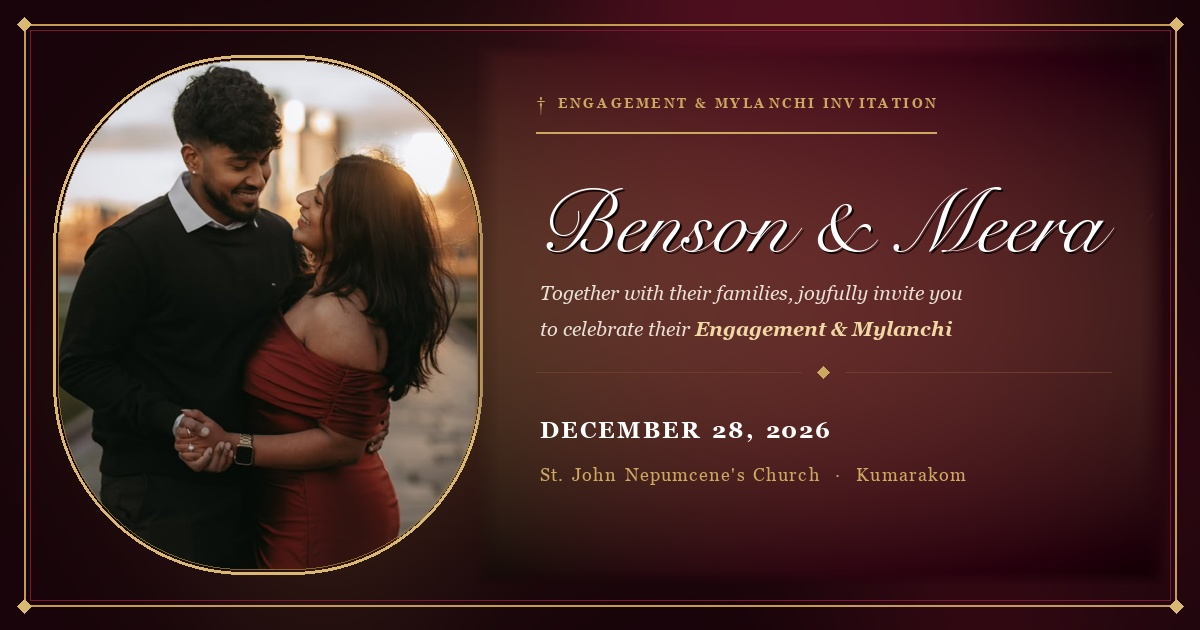
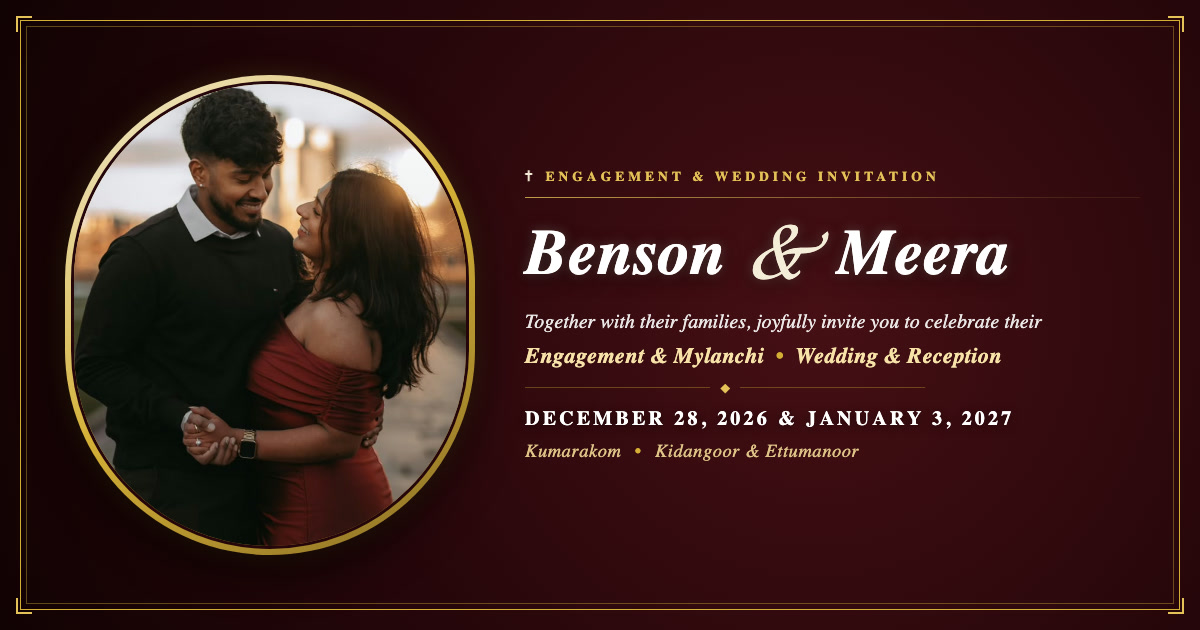
updated

diff --git a/og-template.html b/og-template.html
@@ -1,0 +1,272 @@
+<!DOCTYPE html>
+<html lang="en">
+<head>
+  <meta charset="UTF-8">
+  <style>
+    @import url('https://fonts.googleapis.com/css2?family=Cormorant+Garamond:ital,wght@0,400;0,500;0,600;0,700;1,400;1,500;1,600;1,700&family=Mrs+Saint+Delafield&display=swap');
+
+    * {
+      margin: 0;
+      padding: 0;
+      box-sizing: border-box;
+    }
+
+    body {
+      width: 1200px;
+      height: 630px;
+      overflow: hidden;
+      background: radial-gradient(circle at 68% 50%, #460f15 0%, #26060b 55%, #120204 100%);
+      font-family: 'Cormorant Garamond', serif;
+      color: #fff;
+      display: flex;
+      align-items: center;
+      position: relative;
+    }
+
+    /* Luxury border */
+    .outer-border {
+      position: absolute;
+      inset: 20px;
+      border: 1.5px solid #d4af37;
+      pointer-events: none;
+    }
+
+    .inner-border {
+      position: absolute;
+      inset: 26px;
+      border: 0.75px solid rgba(212, 175, 55, 0.4);
+      pointer-events: none;
+    }
+
+    /* Corner embellishments */
+    .corner {
+      position: absolute;
+      width: 16px;
+      height: 16px;
+      border: 2px solid #e5c158;
+    }
+    .top-left { top: 16px; left: 16px; border-right: none; border-bottom: none; }
+    .top-right { top: 16px; right: 16px; border-left: none; border-bottom: none; }
+    .bottom-left { bottom: 16px; left: 16px; border-right: none; border-top: none; }
+    .bottom-right { bottom: 16px; right: 16px; border-left: none; border-top: none; }
+
+    .content-container {
+      display: flex;
+      align-items: center;
+      width: 100%;
+      height: 100%;
+      padding: 40px 60px 40px 65px;
+      gap: 50px;
+      position: relative;
+      z-index: 2;
+    }
+
+    /* Circular / Oval Portrait */
+    .portrait-wrapper {
+      position: relative;
+      flex-shrink: 0;
+      width: 410px;
+      height: 480px;
+      border-radius: 205px;
+      padding: 6px;
+      background: linear-gradient(145deg, #f5edd8 0%, #d4af37 50%, #8a6d25 100%);
+      box-shadow: 0 15px 45px rgba(0, 0, 0, 0.7), 0 0 25px rgba(212, 175, 55, 0.2);
+    }
+
+    .portrait-inner {
+      width: 100%;
+      height: 100%;
+      border-radius: 200px;
+      overflow: hidden;
+      position: relative;
+      border: 3px solid #26060b;
+    }
+
+    .portrait-inner img {
+      width: 100%;
+      height: 100%;
+      object-fit: cover;
+      object-position: center 22%;
+      display: block;
+    }
+
+    /* Text info */
+    .info-wrapper {
+      flex: 1;
+      display: flex;
+      flex-direction: column;
+      justify-content: center;
+    }
+
+    .badge-top {
+      display: flex;
+      align-items: center;
+      gap: 9px;
+      font-size: 13.5px;
+      letter-spacing: 0.30em;
+      text-transform: uppercase;
+      color: #e5c158;
+      font-weight: 600;
+      margin-bottom: 12px;
+    }
+
+    .badge-top .cross {
+      font-size: 15px;
+      color: #f5edd8;
+    }
+
+    .gold-line {
+      height: 1px;
+      background: linear-gradient(90deg, rgba(229, 193, 88, 0.8) 0%, rgba(229, 193, 88, 0.1) 90%);
+      margin-bottom: 14px;
+      width: 100%;
+    }
+
+    .couple-title {
+      font-family: 'Cormorant Garamond', serif;
+      font-style: italic;
+      font-weight: 600;
+      font-size: 64px;
+      line-height: 1.05;
+      color: #ffffff;
+      text-shadow: 0 4px 18px rgba(0,0,0,0.6), 0 0 12px rgba(245, 237, 216, 0.25);
+      margin-bottom: 14px;
+      white-space: nowrap;
+    }
+
+    .couple-title .amp {
+      font-family: 'Mrs Saint Delafield', cursive;
+      font-size: 78px;
+      font-weight: normal;
+      color: #f5edd8;
+      margin: 0 6px;
+      vertical-align: -4px;
+    }
+
+    .invitation-text {
+      font-size: 20px;
+      font-style: italic;
+      color: rgba(255, 255, 255, 0.90);
+      line-height: 1.35;
+      margin-bottom: 8px;
+      font-weight: 400;
+    }
+
+    .events-highlight {
+      font-size: 22px;
+      color: #f5edd8;
+      font-weight: 600;
+      font-style: italic;
+      letter-spacing: 0.02em;
+      margin-bottom: 16px;
+    }
+
+    .events-highlight strong {
+      color: #f7e2a9;
+      font-weight: 600;
+    }
+
+    .events-highlight .bull {
+      color: #d4af37;
+      margin: 0 6px;
+      font-style: normal;
+    }
+
+    .diamond-divider {
+      display: flex;
+      align-items: center;
+      gap: 12px;
+      margin-bottom: 16px;
+      width: 65%;
+    }
+
+    .diamond-divider .d-line {
+      flex: 1;
+      height: 1px;
+      background: rgba(212, 175, 55, 0.35);
+    }
+
+    .diamond-divider .gem {
+      width: 6.5px;
+      height: 6.5px;
+      background: #e5c158;
+      transform: rotate(45deg);
+    }
+
+    .dates-container {
+      margin-bottom: 10px;
+    }
+
+    .dates-text {
+      font-size: 20px;
+      letter-spacing: 0.16em;
+      text-transform: uppercase;
+      font-weight: 700;
+      color: #ffffff;
+      text-shadow: 0 2px 8px rgba(0,0,0,0.5);
+    }
+
+    .venues-text {
+      font-size: 18.5px;
+      color: #dfc488;
+      font-style: italic;
+      letter-spacing: 0.03em;
+    }
+
+    .venues-text .dot {
+      margin: 0 8px;
+      color: #d4af37;
+      font-style: normal;
+    }
+  </style>
+</head>
+<body>
+
+  <div class="outer-border"></div>
+  <div class="inner-border"></div>
+  <div class="corner top-left"></div>
+  <div class="corner top-right"></div>
+  <div class="corner bottom-left"></div>
+  <div class="corner bottom-right"></div>
+
+  <div class="content-container">
+    <div class="portrait-wrapper">
+      <div class="portrait-inner">
+        <img src="couple-main.jpeg" alt="Benson & Meera">
+      </div>
+    </div>
+
+    <div class="info-wrapper">
+      <div class="badge-top">
+        <span class="cross">✝</span>
+        <span>Engagement &amp; Wedding Invitation</span>
+      </div>
+      <div class="gold-line"></div>
+
+      <h1 class="couple-title">Benson <span class="amp">&amp;</span> Meera</h1>
+
+      <p class="invitation-text">
+        Together with their families, joyfully invite you to celebrate their
+      </p>
+      <div class="events-highlight">
+        <strong>Engagement &amp; Mylanchi</strong> <span class="bull">&bull;</span> <strong>Wedding &amp; Reception</strong>
+      </div>
+
+      <div class="diamond-divider">
+        <div class="d-line"></div>
+        <div class="gem"></div>
+        <div class="d-line"></div>
+      </div>
+
+      <div class="dates-container">
+        <div class="dates-text">December 28, 2026 &amp; January 3, 2027</div>
+      </div>
+
+      <div class="venues-text">
+        Kumarakom <span class="dot">&bull;</span> Kidangoor &amp; Ettumanoor
+      </div>
+    </div>
+  </div>
+
+</body>
+</html>
